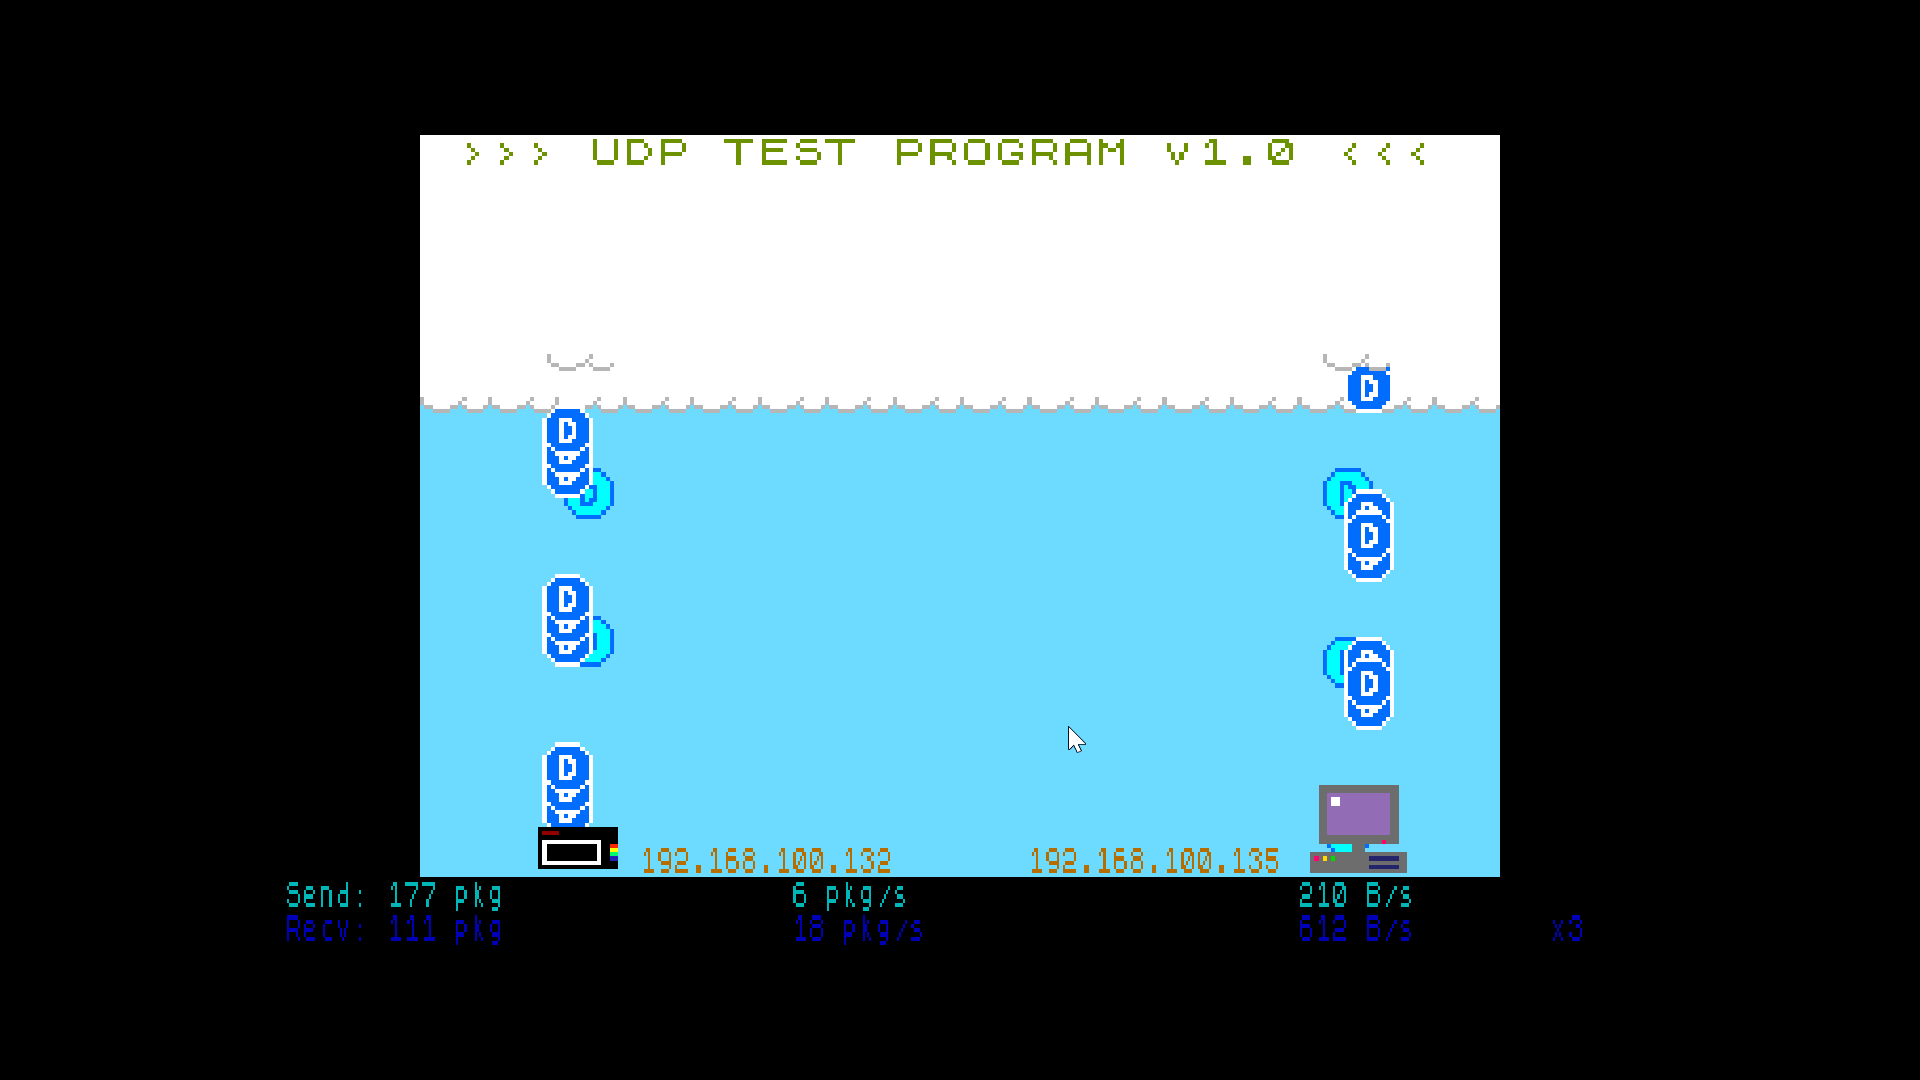
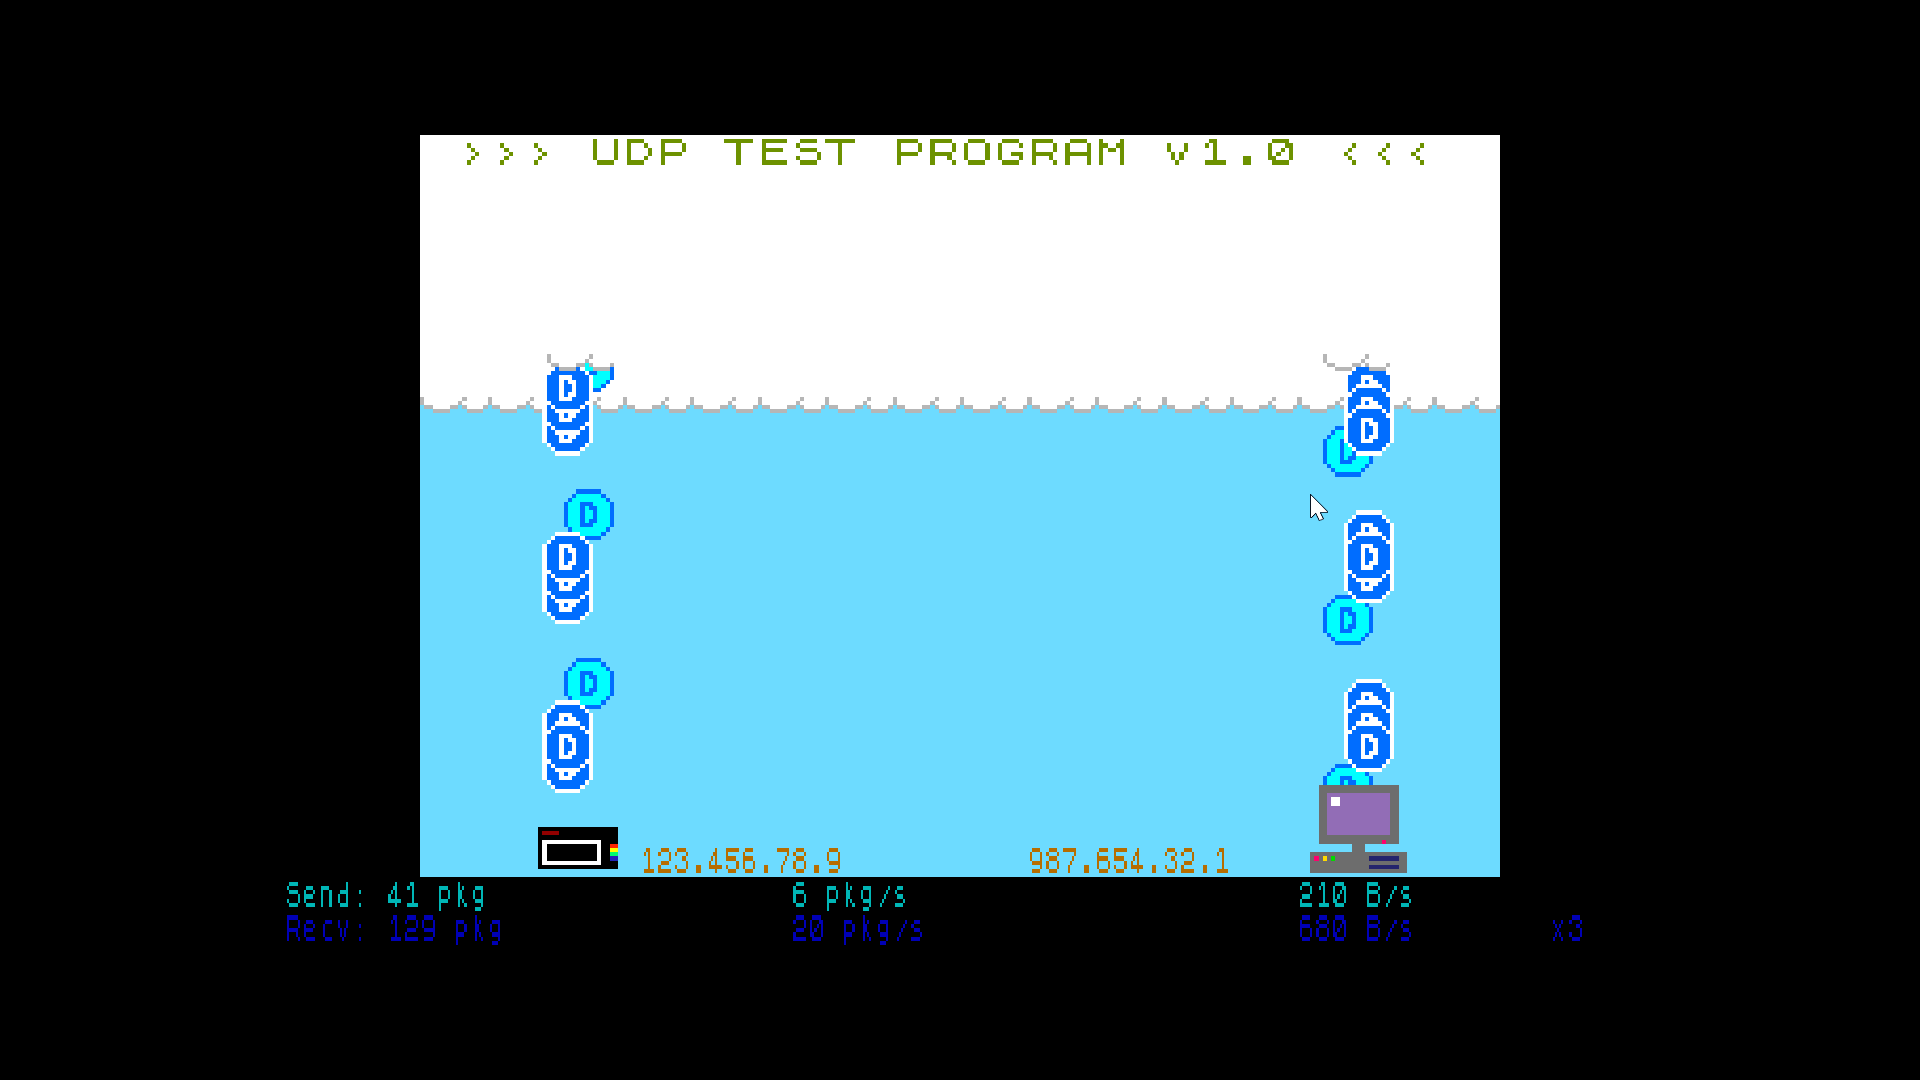
updated screenshot

diff --git a/src/main.c b/src/main.c
@@ -665,6 +665,8 @@ void main(int argc, const char* argv[])
     screencolour = TT_COLOR_DARK_YELLOW;
     TextTileMapPutsPos(25, 21, localIpAddress);
     TextTileMapPutsPos(25, 44, serverAddress);
+    //TextTileMapPutsPos(25, 21, "123.456.78.9");  // For the screenshot
+    //TextTileMapPutsPos(25, 44, "987.654.32.1");  // For the screenshot
 
     // Loop until the end of the game.
     while (true)
